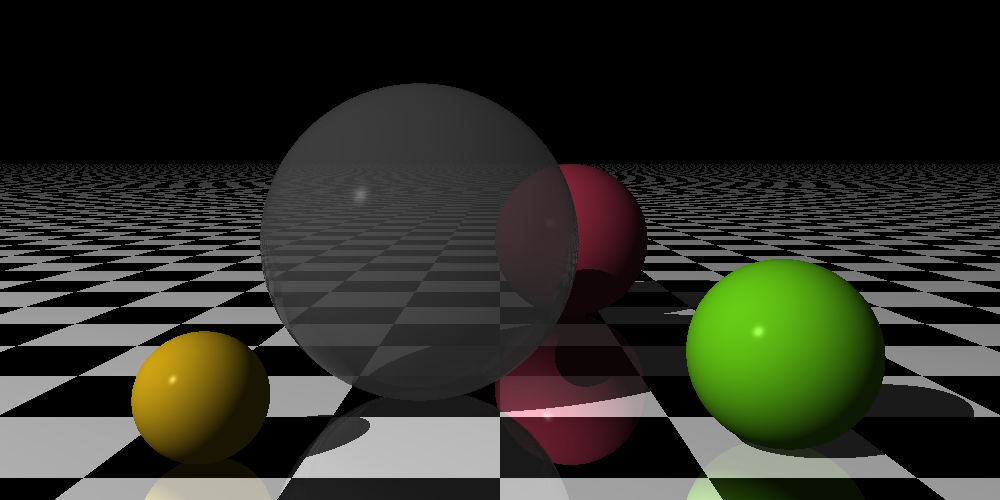
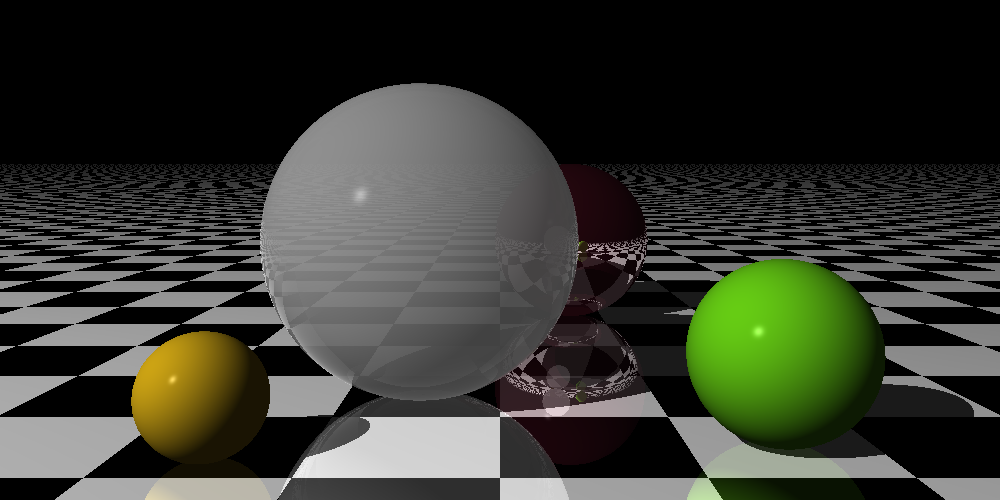
Better chapter11 example

Changed region(s): [[0.248, 0.15, 0.651, 0.96], [0.279, 0.81, 0.434, 1.0]]

diff --git a/examples/chapter11.rs b/examples/chapter11.rs
@@ -26,11 +26,11 @@ fn main() -> Result<(), fmt::Error> {
                 .material(
                     MaterialBuilder::default()
                         .color(color::WHITE)
-                        .diffuse(0.1)
-                        .ambient(0.1)
+                        .diffuse(0.3)
+                        .ambient(0.2)
                         .specular(0.2)
-                        .transparency(0.4)
-                        .reflective(0.4)
+                        .transparency(0.3)
+                        .reflective(0.9)
                         .shininess(300.0)
                         .build()
                         .unwrap(),
@@ -45,9 +45,11 @@ fn main() -> Result<(), fmt::Error> {
                 )
                 .material(
                     MaterialBuilder::default()
-                        .color(Color::new(0.7, 0.2, 0.3))
-                        .diffuse(0.7)
-                        .specular(0.3)
+                        .color(Color::new(0.5, 0.1, 0.2))
+                        .diffuse(0.2)
+                        .specular(0.2)
+                        .reflective(1.0)
+                        .shininess(400.0)
                         .build()
                         .unwrap(),
                 )
